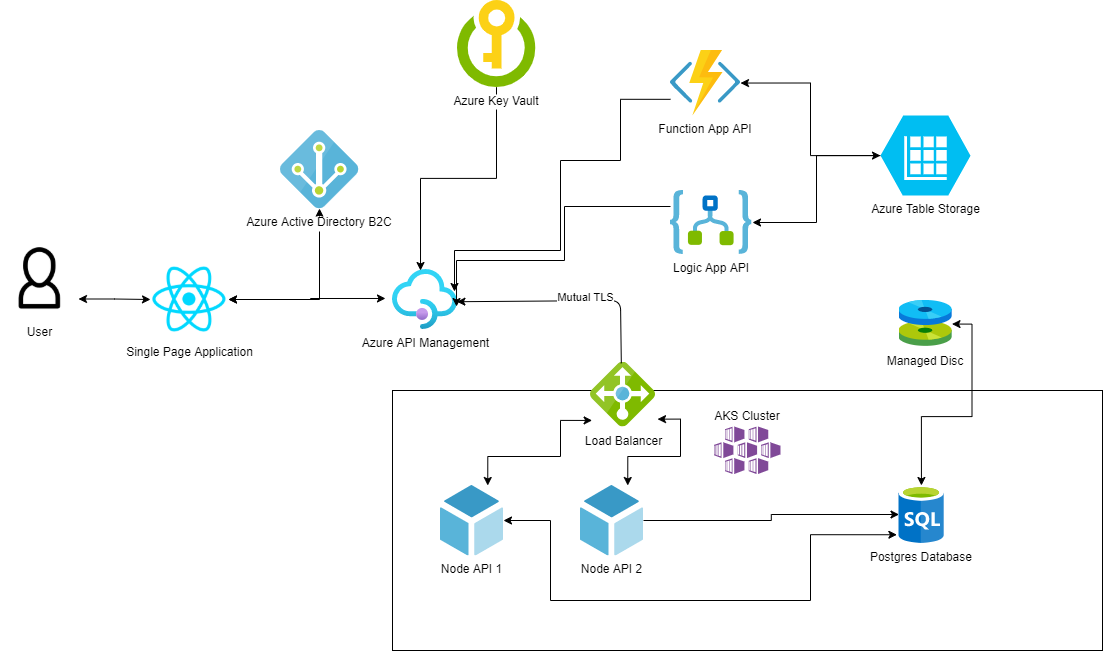
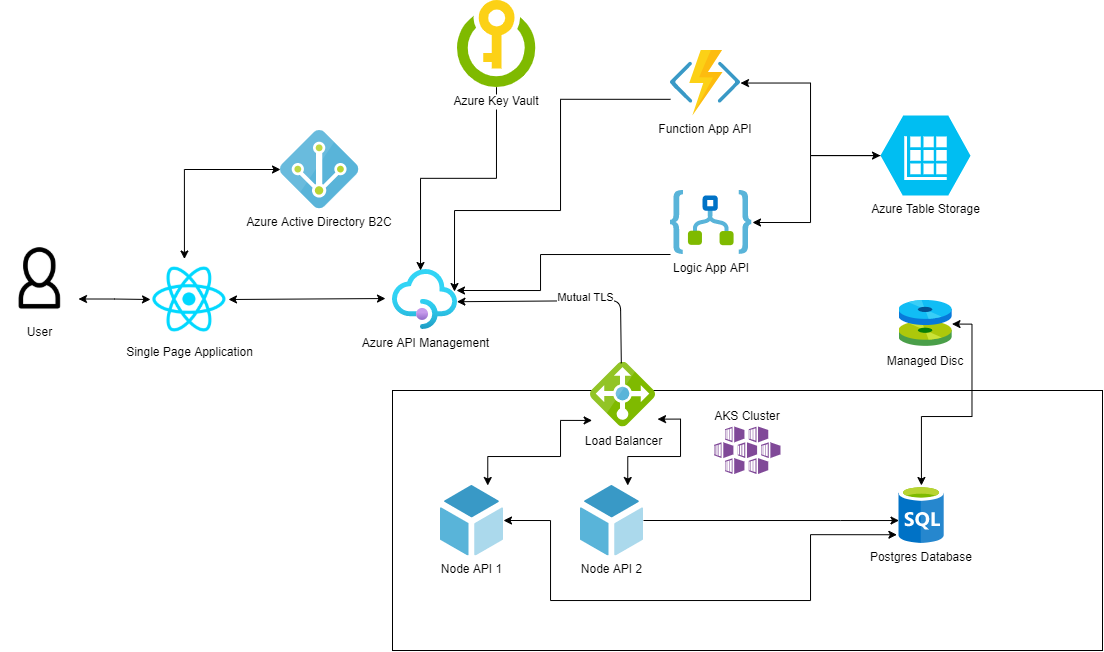
added updated architecture digram for fgr-secure-api

diff --git a/src/Components/Portfolio/SubPage/FGRSecureAPIDemoPage.js b/src/Components/Portfolio/SubPage/FGRSecureAPIDemoPage.js
@@ -24,7 +24,7 @@ class FGRSecureAPIDemoPage extends Component {
     return (
       <div className="portfolio-page-main-div container-fluid">
         <div className="container portfolioDivHead">
-          <h2>FGR Kubernetes Demo</h2>
+          <h2>FGR Secure API</h2>
           <h5>
             This Kubernetes demo demonstrates my proficiency with Containerization,
             Kubernetes, and the building of full-scale applications from scratch using a microservice architecture.
